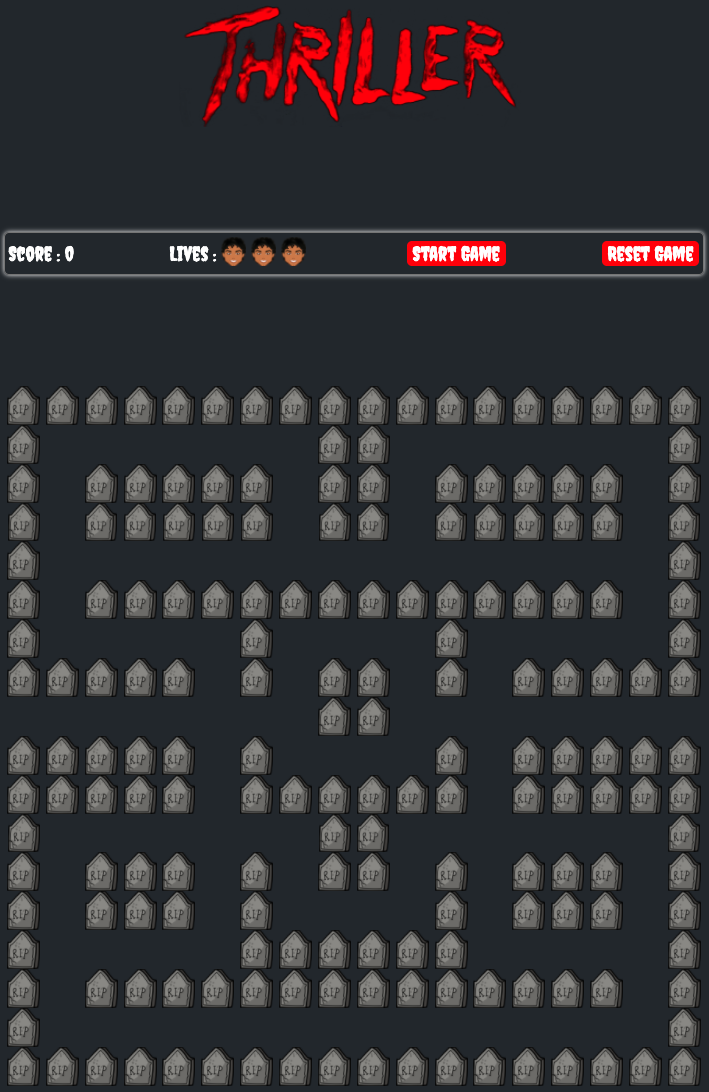
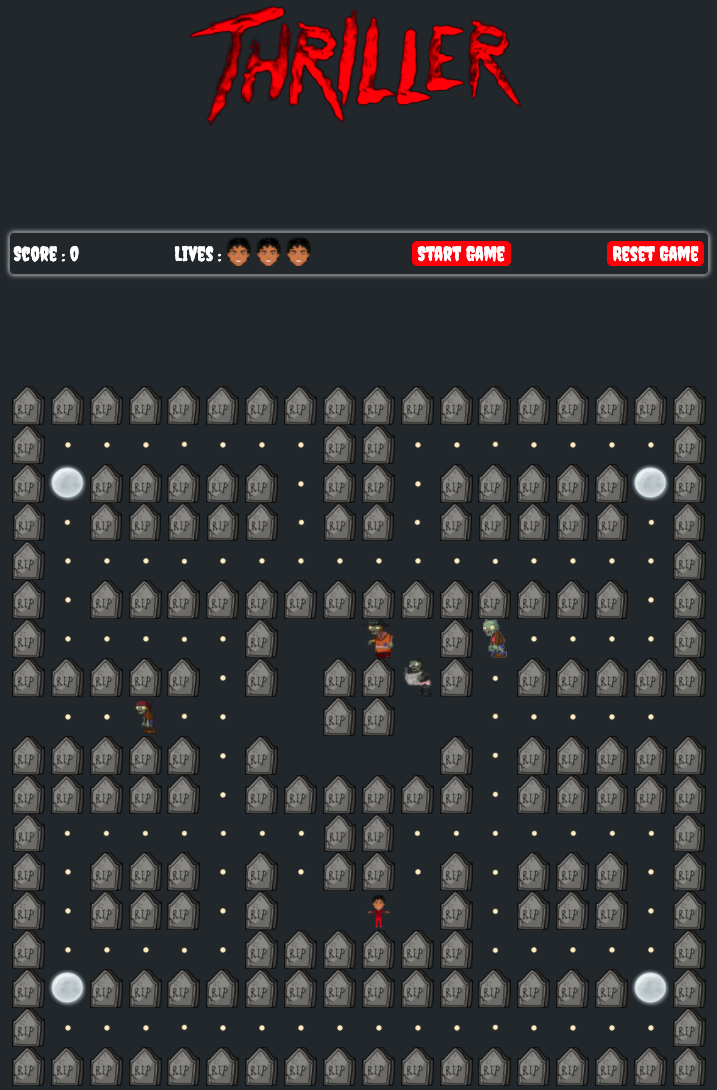
readme

diff --git a/js/app.js b/js/app.js
@@ -453,8 +453,8 @@ function playGame() {
             clearInterval(gameInterval)
             removeMichael()
             selectCellId(zombie.position).classList.add(zombie.charName, 'zombie')
+            lives--
             if (lives > 0) {
-              lives--
               displayLives[lives].setAttribute('src', 'images/lives-lost.png')
               setTimeout(() => {
                 removeAllZombies()

diff --git a/README.md b/README.md
@@ -1,48 +1,90 @@
+# <p><span>Pac-Man Thriller Edition</span><img align="right" src="https://ga-dash.s3.amazonaws.com/production/assets/logo-9f88ae6c9c3871690e33280fcf557f33.png"></p>
+<hr/>
+<br/><br/><br/>
+
+<p align="center"><img src="images/thriller-logo-small.png"></p>
+
+<!--![final_game](images/final_game.png)-->
+
+<br/>
+## Table of Contents
+* [Overview](#overview)
+* [Play the game](#play)
+* [Project Brief](#brief)
+* [Technologies Used](#technologies)
+* [Approach](#approach)
+* [Final Product](#final)
+* [Future Enhancements](#enhancements)
+* [Wins & Challenges](#wins-and-challenges)
 
 
-# ![GA logo](https://ga-dash.s3.amazonaws.com/production/assets/logo-9f88ae6c9c3871690e33280fcf557f33.png) Pac - Man Thriller Edition
-#SEI/projects/project1
 
-![final_game](images/final_game.png)
+<br/>
+## <a name="overview"></a>Overview
+This was my first project from the Software Engineering Immersive Course I took at General Assembly London, built after 4 weeks of class. This was also my first ever project as a developer. 
 
+It was a **solo project** and the timeframe was **one week**.
 
-## Overview
-This was the first project from the Software Engineering Immersive Course at General Assembly London, built after 4 weeks of class. This was also my first ever project as a developer. 
+I have created a grid based version of the classic game [Pac-Man](https://en.wikipedia.org/wiki/Pac-Man) using **HTML**, **CSS**, **Vanilla JavaScript** and **DOM Manipulation**. 
 
-All students have been given the task to individually create a grid based game using HTML, CSS and JavaScript within one week. We had the choice of several games and I picked Pac - Man. 
+The theme of the game is inspired after Michael Jackson’s Thriller [video clip](https://www.youtube.com/watch?v=4V90AmXnguw). **Pac-Man** has been replaced by **Michael** and the traditional **ghosts** by **zombies**. **Power Pellets** are **Full Moons** and the **Bonus Fruit** has been replaced by **Pop Corn**.
 
-To make my game a bit different, I have inspired it after Michael Jackson’s Thriller soundtrack and video clip. **Pac - Man** has been replaced by **Michael** and the traditional **ghosts** by **zombies**. **Power Pellets** are **Full Moons** and the **Bonus Fruit** appearing after a certain amount of dots is gathered has been replaced by **Pop Corn**.
-
-You can access the game with this [link](https://fdepasse.github.io/project-1/) and [here](https://github.com/fdepasse/project-1) is a link to my GitHub repository for this project.
+>Access the **game** [here](https://fdepasse.github.io/pacman-thriller/) and the **repository** [here](https://github.com/fdepasse/pacman-thriller)
 
 
-## Brief
-* **Render a game in the browser**
-* **Design logic for winning** & **visually display which player won**
-* **Include separate HTML / CSS / JavaScript files**
-* Stick with **KISS (Keep It Simple Stupid)** and **DRY (Don’t Repeat Yourself)** principles
-* Use **Javascript** for **DOM manipulation**
-* **Deploy your game online**, where the rest of the world can access it
-* Use **semantic markup** for HTML and CSS (adhere to best practices)
+<br/>
+## <a name="play"></a>Play the game
+* Visit this [link](https://fdepasse.github.io/pacman-thriller/)
+* Click the **Start Game** button to launch the game
+* Once all characters have appeared start moving Michael using the **top**, **right**, **down** and **left** arrow keys of your keyboard
+* Eat all dots and full moons to **win the game** while avoiding being caught by the zombies
+* When Michael lands on a **Full Moon** he will turn into a Werewolf for 10 seconds and will have the ability to eat zombies and score extra points
+* After reaching the 400 and 800 points markers a **Pop Corn** bonus worth 100 points will appear at a random location on the grid
+* You will **lose the game** if you lose your 3 lives
+* You can **reset** the game at any point by clicking the **Reset Game** button
+* Points system: **Dots** 10 points, **Moons** 50 points, **Pop Corn** 100 points, **Zombie** (during Full Moon Mode) points
 
+![final_game](images/navbar.png)
 
-## Technologies Used
+> In pure classic Pac-Man style, once you have initiated the first movement, Michael will automatically carry on moving in the same direction until you press another arrow key or he encounters a grave stone or a zombie
+
+<br/>
+## <a name="brief"></a>Project Brief
+* Render a game in the browser
+* Design logic for winning & visually display which player won
+* Include separate HTML / CSS / JavaScript files
+* Stick with KISS (Keep It Simple Stupid) and DRY (Don’t Repeat Yourself) principles
+* Use Javascript for DOM manipulation
+* Deploy your game online, where the rest of the world can access it
+* Use semantic markup for HTML and CSS (adhere to best practices)
+
+<br/>
+## <a name="technologies"></a>Technologies Used
+
+###Frontend
 * HTML
 * CSS
-* JavaScript
-* QuickTime Player
-* Preview
-* Git and GitHub
+* Vanilla JavaScript
 * Google Fonts
 
+###Development tools
+* VS Code
+* Git
+* GitHub (including deployment)
+* Google Chrome Dev Tools
+* QuickTime Player (sound editing)
+* Preview (pictures editing)
+* Zoom
+* Slack
 
-## Approach
-### Building the board
-* The challenge here was to build board game with different features that will determine the characters behaviour as they move on the grid:  stones (or walls in traditional Pac - Man) , dot (food), 4 x moons (power pellet), a tunnel right entrance and a tunnel left entrance. 
-* I wanted to achieve in the most programatic way possible using JavaScript and DOM Manipulation.
+<br/>
+## <a name="approach"></a>Approach
+### Step 1: Building the board
+<p align="center"><img src="images/grid.png"></p>
 
-#### Creating the board and the cells
-* After deciding on the shape (square) and the size (18 x 18) of the grid, I used a for loop to create the 324 cells of the grid by manipulating the DOM and giving each cell innerHTML (useful for debugging), an id (extensively used during the course of the game for the characters’ positions), dimensions. I also pushed all cells to an array for future use.
+#### Problem #1: Programatically generate a 18 x 18 square grid via DOM Manipulation
+I used a **for loop** to create all the cells. I gave each of them an innerHTML (useful for debugging), an id (extensively used during the course of the game for the characters’ positions) and dimensions. I also pushed all cells to an array for future use.
+
 ```
 for (let i = 0; i < gridWidth ** 2; i++) {
   const newCell = document.createElement(‘div’)
@@ -55,35 +97,21 @@ for (let i = 0; i < gridWidth ** 2; i++) {
 }
 ```
 
+#### Problem #2: Give each cell the right class to represent "stones", "dots", "moons" and "tunnels"
+I chose to store my cells by type within an object of arrays, each key being a cell type taking an array of cells as value as per below.
 
-#### Drawing the board
-* I chose to store my cells by type within an object of arrays, each key being a cell type taking an array of cells as value as per below.
-``` javascript
+``` 
 const cellsObject = {
-  stones: [0, 1, 2, 3, 4, 5, 6, 7, 8, 9, 10, 11, 12, 13, 14, 15, 16, 17, 18, 36, 54, 72, 90, 108, 126, 162, 180, 198, 216, 234, 252, 270, 288, 306, 307, 308, 309, 310, 311, 312, 313, 314, 315, 316, 317, 318, 319, 320, 321, 322, 323, 305, 287, 269, 251, 233, 215, 197, 179, 143, 125, 107, 89, 71, 53, 35, 26, 44, 62, 63, 45, 27, 47, 48, 49, 50, 51, 69, 68, 67, 66, 65, 60, 59, 58, 57, 56, 38, 39, 40, 41, 42, 92, 93, 94, 95, 96, 97, 98, 99, 100, 101, 102, 103, 104, 105, 114, 132, 134, 135, 153, 152, 137, 119, 139, 140, 141, 142, 127, 128, 129, 130, 168, 186, 187, 188, 189, 190, 191, 173, 175, 193, 194, 176, 177, 195, 196, 178, 163, 181, 164, 182, 165, 183, 166, 184, 206, 207, 225, 224, 222, 220, 219, 218, 236, 237, 238, 240, 258, 259, 260, 261, 262, 263, 245, 227, 229, 247, 248, 230, 231, 249, 272, 273, 274, 275, 276, 277, 278, 279, 280, 281, 282, 283, 284, 285],
+stones: [0, 1, 2, 3, 4, 5, 6, 7, 8, 9, 10, 11, 12, 13, 14, 15, 16, 17, 18, 36, 54, 72, 90, 108, 126, 162, 180, 198, 216, 234, 252, 270, 288, 306, 307, 308, 309, 310, 311, 312, 313, 314, 315, 316, 317, 318, 319, 320, 321, 322, 323, 305, 287, 269, 251, 233, 215, 197, 179, 143, 125, 107, 89, 71, 53, 35, 26, 44, 62, 63, 45, 27, 47, 48, 49, 50, 51, 69, 68, 67, 66, 65, 60, 59, 58, 57, 56, 38, 39, 40, 41, 42, 92, 93, 94, 95, 96, 97, 98, 99, 100, 101, 102, 103, 104, 105, 114, 132, 134, 135, 153, 152, 137, 119, 139, 140, 141, 142, 127, 128, 129, 130, 168, 186, 187, 188, 189, 190, 191, 173, 175, 193, 194, 176, 177, 195, 196, 178, 163, 181, 164, 182, 165, 183, 166, 184, 206, 207, 225, 224, 222, 220, 219, 218, 236, 237, 238, 240, 258, 259, 260, 261, 262, 263, 245, 227, 229, 247, 248, 230, 231, 249, 272, 273, 274, 275, 276, 277, 278, 279, 280, 281, 282, 283, 284, 285],
   dots: [291, 292, 290, 289, 293, 294, 294, 295, 296, 297, 298, 299, 300, 301, 302, 303, 304, 268, 267, 266, 265, 264, 257, 256, 254, 255, 253, 235, 217, 199, 200, 201, 202, 203, 221, 239, 204, 205, 223, 226, 208, 209, 210, 228, 246, 211, 212, 213, 214, 232, 250, 185, 185, 167, 145, 146, 147, 148, 149, 131, 113, 112, 111, 109, 110, 91, 73, 55, 19, 20, 21, 22, 23, 24, 25, 43, 61, 74, 75, 76, 77, 78, 79, 80, 81, 82, 64, 46, 28, 29, 30, 31, 32, 33, 34, 70, 83, 84, 85, 86, 87, 88, 106, 124, 123, 122, 121, 120, 138, 156, 174, 192, 157, 158, 159, 160],
   moons: [37, 52, 271, 286],
   tunnelright: 161,
   tunnelleft: 144
 }
 ```
+I then created a function to loop through each array in `cellsObject` and give each cell the relevant class on the board.
 
-* To get to the above arrays,  I have used an event listener to allow me to draw the board in the browser and I copied the arrays from the browser’s console to my JS file.
-
-``` javascript
-const cells = document.querySelectorAll('#grid div')
-cells.forEach((div) => {
-  div.addEventListener('click', () => {
-    div.classList.add('dot')
-    cellsObject.dots.push(div.innerHTML)
-    console.log(cellsObject.dots)
-  })
-})
 ```
-
-* Lastly I looped through each array to give each cell the relevant class on the board (stone, dots, moons, tunnel.
-
-``` javascript
 function giveClassToCells(array, className) {
   array.forEach((element) => {
     selectCellId(element).classList.add(className)
@@ -92,12 +120,15 @@ function giveClassToCells(array, className) {
 giveClassToCells(cellsObject.stones, 'stone')
 ```
 
+<br/>
+<hr/>
+### Step 2: Creating the characters
+<p align="center"><img src="images/characters.png"></p>
 
-#### Creating the characters
-* I have chosen to create objects for my characters so I could store and update useful information about them at all time during the game: charName being equal to the name of their class, start and current position. 
-* For Michael, I needed an extra key-value property so I have created an extension of the Character class to a class of Hero so I could add the status of Michael (mj = normal mode / mj-werewolf = full moon mode)
-* For the zombies I have finally stored all 4 objects in an array which has allowed to loop through them to manage their movements.
-``` javascript
+#### <a name="position"></a>Problem #1: Store information about the characters so it can be easily accessed to manipulate the DOM
+I created a class of `Character` taking the following properties common to all characters: `charName` (a CSS class of the character), `startPosition` (a cell id number to know where to make the characters appear on the grid at first) and `position` (the cell id position where the character currently is at any point during the game).
+
+```
 class Character {
   constructor(charName, startPosition) {
     this.charName = charName
@@ -105,7 +136,12 @@ class Character {
     this.position = ''
   }
 }
+```
 
+#### Problem #2: Capture each character specificities
+For Michael, I needed an extra key-value pair to be able to change Michael's status between "Normal" and "Werewolf" depending if the Full Moon mode was activated or not. I have created an extension of the Character class to a class of Hero so I could add the status of Michael (mj = normal mode / mj-werewolf = full moon mode).
+
+```
 class Hero extends Character {
   constructor(charName, startPosition) {
     super(charName, startPosition)
@@ -113,35 +149,32 @@ class Hero extends Character {
   }
 }
 ```
+For the zombies, I have stored the 4 objects in an array so I could manage their behaviour all at once by [looping through them](#zombies). 
 
 
-### Game Flow 
-* The game starts when the “Start Game” button is clicked by calling the `playGame()` within and even listener
-* The `playGame()`  function is called 3 seconds after the button is clicked leaving time for the intro music to play and for the grid and characters to appear, all being managed with timeouts
-* On click of the button, Michael can start moving as well
-* The function `michaelMoves()` manages Michael’s behaviour and the `playGame()` function controls the flow of the game and includes the interval within which we are looping through the Zombie array to control their behaviour at different stage of the game
-``` javascript
-document.querySelector('#start').addEventListener('click', () => {
-  audioPlayer.src = 'sounds/intro.m4a'
-  audioPlayer.play()
-  setTimeout(() => {
-    giveClassToCells(cellsObject.dots, 'dot')
-    giveClassToCells(cellsObject.moons, 'moon')
-  }, 2300)
-  setTimeout(() => {
-    zombiesToStartPosition()
-    michaelToStartPosition()
-    michaelMoves()
-    playGame()
-  }, 3000)
-})
+<br/>
+<hr/>
+### Step 3: The Game Flow
+#### Problem #1: Keeping track of the lives, the points scored and the Full Moon mode
+As these variables change during the game, they trigger specific events. Therefore, it was important to be able to check their status at all time. For this reason, I have stored them in global variables:
+
+* `lives` set to 3 by default and decreases when Michael gets caught by zombies
+* `points` set to 0 to start with and updates as the player eats dots, moons, pop corn and zombies when in Full Moon mode
+* `fullMoon` set to false by default and switches to true when Michael lands on a moon
+
+<p align="center"><img src="images/variables.png"></p>
+
+#### Problem #2: Make Michael move with the arrow keys of the keyboard, manage his behaviour and his impact on the game depending on the situation he encounters
+Michael’s movements have been wrapped under a function called `michaelMoves()`. It listens to "keyup" events on the keyboard and returns the relevant set of behaviours depending on whether the key pressed is "up", "right", "down" or "left" (managed with an if statement). 
+
+When a key is pressed:
+
+* An interval running the code every 300ms allows Michael to move on its own once a direction key has been pressed
+* If statements constantly check `michael.position` (property of `michael` [object](#position)) and his next move
+* Depending on the type of cell he is landing on, the relevant logic is applied
+* Points scoring is captured in this statement
+
 ```
-
-
-### Michael’s Movements
-* Michael’s movements have been wrapped under a function called `michaelMoves()` which manages grid navigation, points scoring and triggering “Full Moon Mode”
-
-``` java
 function michaelMoves() {
 
   document.addEventListener('keyup', (event) => {
@@ -202,20 +235,13 @@ function michaelMoves() {
 ...
 ```
 
-#### Navigating the grid
-* To move Michael, I have set an event listener on the arrow keys. Each direction (up, right, left, down) is set within an interval so that the player only need to press the key once and Michael will keep moving until another direction is chosen by the player
-* There is a set a of if statements within each direction’s interval to manage Michael’s behaviour when encountering each type of cell (going through a tunnel and landing on the other side of the grid, not going through stones etc.)
-
-#### Scoring Points
-* Within the relevant statement when Michael reaches a cell with the class of ‘dot’ the score will increase by 10 points, ‘moon’ 50 points and the Full Moon mode will start for 10 seconds (more details below), ‘pop corn’ 100 points (see more details below).
-
-
-### Zombies Movements
+#### <a name="zombies"></a>Problem #3: Make the Zombies move randomly on the grid, manage their behaviour and their impact on the game depending on the situation they encounter
 * To manage the zombies behaviour, I have set a number of if statements within a for loop over the array of zombies I created (containing each zombie as an object).
 * The for each loop is nested within an  interval to allow each zombie to move automatically every 300 ms as well as checking what cell they are landing to adapt they behaviour accordingly
 * If statements are in place to adapt the zombie’s behaviour when encountering Michael, a stone, a tunnel or any other cell
 * When encountering Michael, the zombie’s behaviour is different whether the full moon mode is activated or not.  I have therefore split the for each loop into 2 main if statements: when the full moon mode is on and when it is not
-``` javascript
+
+```
 // Storing all possible directions for the Zombies
   const zombieDirectionArray = [1, -1, gridWidth, -gridWidth]
 
@@ -283,11 +309,42 @@ function michaelMoves() {
 ```
 
 
+### Generic start game
+* The game starts when the “Start Game” button is clicked by calling the `playGame()` within and even listener
+* The `playGame()`  function is called 3 seconds after the button is clicked leaving time for the intro music to play and for the grid and characters to appear, all being managed with timeouts
+* On click of the button, Michael can start moving as well
+* The function `michaelMoves()` manages Michael’s behaviour and the `playGame()` function controls the flow of the game and includes the interval within which we are looping through the Zombie array to control their behaviour at different stage of the game
+
+```
+document.querySelector('#start').addEventListener('click', () => {
+  audioPlayer.src = 'sounds/intro.m4a'
+  audioPlayer.play()
+  setTimeout(() => {
+    giveClassToCells(cellsObject.dots, 'dot')
+    giveClassToCells(cellsObject.moons, 'moon')
+  }, 2300)
+  setTimeout(() => {
+    zombiesToStartPosition()
+    michaelToStartPosition()
+    michaelMoves()
+    playGame()
+  }, 3000)
+})
+```
+
+
+
+
+
+
+
+
 ### Full Moon Mode
 * The mode is started for 10 seconds when Michael lands on a cell with the class of “moon”, only if a “Full Moon” mode is not already active
 * When the above happens, Michael scores 50 points, the Thriller logo is replaced by the full moon, Michael tuns into a werewolf
 * After 10 seconds, a Timeout ensures that the full moon mode is switched off, Michael returns to its normal form and the Thriller logo comes back
 * This code is included in the function called `michaelMoves()` 
+
 ``` javascript
 ...
 else if (selectCellId(michael.position + 1).classList.contains('moon')) {
@@ -361,22 +418,32 @@ if (points === 400 || points === 800) {
 ```
 
 
+
 ### Variables & Functions
 * A number of variables and functions have been globally declared to track the progress of the game
-* `fullMoon` set to false by default and gets switched to true when Michael lands on a cell with the class of moon, triggering the “Full Moon” mode
-* `points` set to 0 to start with, it gets updated as the player eats dots, moons, pop corn and Zombies when in Full Moon mode
+
+
 * `gameWon()` function is called at the start of the `playGame()` function to check whether all dots and moons have been eaten by the player and if so triggers the winning screen to appear and the winning music to play
 * `gameOver()` function is called within the the for each loop in the zombie interval when a zombie eats Michael and there are no lives left. It then triggers losing screen and music.
-* `lives` is a variable set to 3 to start with and decreasing as the Michael gets eaten by zombies
+
 * `popCornPosition` is assigned a random position in the `popCornPossibleLocations()` function when the Pop Corn mode is triggered
 * `popCornTime` is assigned to 0 to start with and gets updated to 1 once 400 points or 800 points are reached 
 
 
+
+
+
+
+<br/>
+## <a name="final"></a>Final Product
+
+<br/>
+## <a name="enhancements"></a>Enhancements
 ### Remaining Bugs
 * The collision detection within Michael and the Zombies is not perfect depending on when the characters started their interval.
 * Although all three lives have been lost, the player can still have a last go and only loses the game after losing 4 lives
 
-
+<br/>
 ## Potential Future Enhancements
 * Smart zombies that will track Michael using path finding algorithm
 * Different behaviour for each Zombie
@@ -392,8 +459,8 @@ if (points === 400 || points === 800) {
 * Pausing the game / Resuming the game
 * Cumulative points when eating zombies
 
-
-## Challenges & Lessons learned
+<br/>
+## <a name="wins-and-challenges"></a>Wins & Challenges
 * Setting up a grid game in a programatic way with minimal HTML and CSS involvement 
 * Code duplication: as my first project the code written is not the most optimised and would need to be re looked at
 * Understanding timings with TimeOuts and Intervals has definitely been a challenge and how to deal with them once they are nested with each other (.i.e. collision detection)
